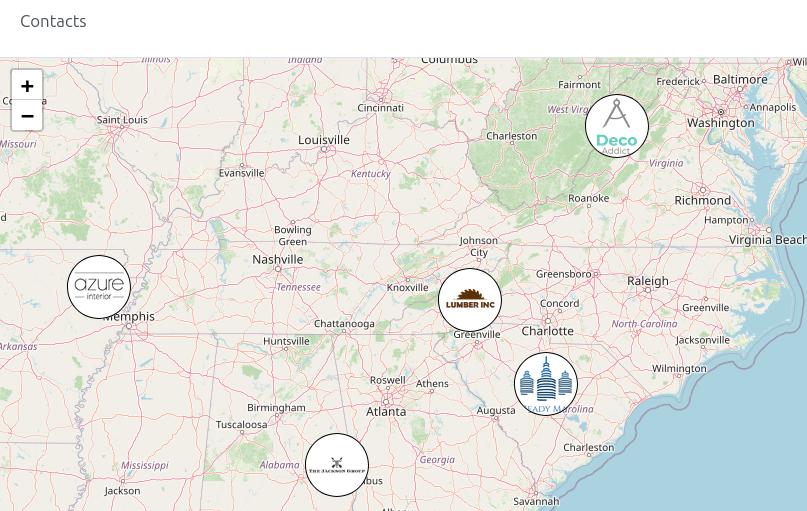
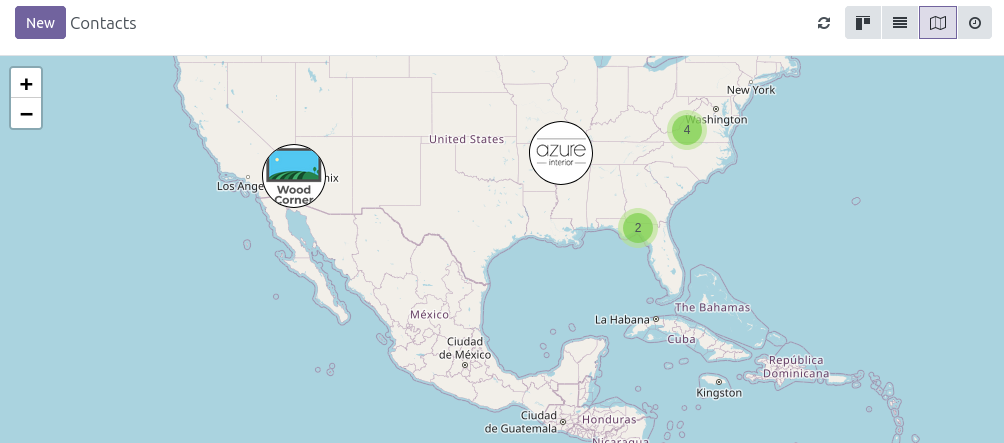
[REF] web_view_leaflet_map: full refactor. - rename folder to follow odoo and OCA conventions, regarding views definition - isolate leaflet_map_view code - isolate leaflet_map_controller code - isolate leaflet_map_renderer code - split xml file into renderer and controller part - apply Odoo SA conve
[FIX] remove useless logs, and put a single one in debug level
- remove useless code
- remove obsolete directive: control-panel-bottom-right

[IMP] web_view_leaflet_map: introduce 'Create' Button

diff --git a/web_view_leaflet_map/static/description/index.html b/web_view_leaflet_map/static/description/index.html
@@ -3,7 +3,7 @@
 <head>
 <meta http-equiv="Content-Type" content="text/html; charset=utf-8" />
 <meta name="generator" content="Docutils: https://docutils.sourceforge.io/" />
-<title>README.rst</title>
+<title>Leaflet Map View (OpenStreetMap)</title>
 <style type="text/css">
 
 /*
@@ -360,21 +360,16 @@ ul.auto-toc {
 </style>
 </head>
 <body>
-<div class="document">
+<div class="document" id="leaflet-map-view-openstreetmap">
+<h1 class="title">Leaflet Map View (OpenStreetMap)</h1>
 
-
-<a class="reference external image-reference" href="https://odoo-community.org/get-involved?utm_source=readme">
-<img alt="Odoo Community Association" src="https://odoo-community.org/readme-banner-image" />
-</a>
-<div class="section" id="leaflet-map-view-openstreetmap">
-<h1>Leaflet Map View (OpenStreetMap)</h1>
 <!-- !!!!!!!!!!!!!!!!!!!!!!!!!!!!!!!!!!!!!!!!!!!!!!!!!!!!
 !! This file is generated by oca-gen-addon-readme !!
 !! changes will be overwritten.                   !!
 !!!!!!!!!!!!!!!!!!!!!!!!!!!!!!!!!!!!!!!!!!!!!!!!!!!!
 !! source digest: sha256:4e68900a79d923acb16260b8dded77558e5fbbba071b0ec253adef930e58c15c
 !!!!!!!!!!!!!!!!!!!!!!!!!!!!!!!!!!!!!!!!!!!!!!!!!!!! -->
-<p><a class="reference external image-reference" href="https://odoo-community.org/page/development-status"><img alt="Beta" src="https://img.shields.io/badge/maturity-Beta-yellow.png" /></a> <a class="reference external image-reference" href="http://www.gnu.org/licenses/agpl-3.0-standalone.html"><img alt="License: AGPL-3" src="https://img.shields.io/badge/license-AGPL--3-blue.png" /></a> <a class="reference external image-reference" href="https://github.com/OCA/geospatial/tree/18.0/web_view_leaflet_map"><img alt="OCA/geospatial" src="https://img.shields.io/badge/github-OCA%2Fgeospatial-lightgray.png?logo=github" /></a> <a class="reference external image-reference" href="https://translation.odoo-community.org/projects/geospatial-18-0/geospatial-18-0-web_view_leaflet_map"><img alt="Translate me on Weblate" src="https://img.shields.io/badge/weblate-Translate%20me-F47D42.png" /></a> <a class="reference external image-reference" href="https://runboat.odoo-community.org/builds?repo=OCA/geospatial&amp;target_branch=18.0"><img alt="Try me on Runboat" src="https://img.shields.io/badge/runboat-Try%20me-875A7B.png" /></a></p>
+<p><a class="reference external image-reference" href="https://odoo-community.org/page/development-status"><img alt="Beta" src="https://img.shields.io/badge/maturity-Beta-yellow.png" /></a> <a class="reference external image-reference" href="http://www.gnu.org/licenses/agpl-3.0-standalone.html"><img alt="License: AGPL-3" src="https://img.shields.io/badge/licence-AGPL--3-blue.png" /></a> <a class="reference external image-reference" href="https://github.com/OCA/geospatial/tree/18.0/web_view_leaflet_map"><img alt="OCA/geospatial" src="https://img.shields.io/badge/github-OCA%2Fgeospatial-lightgray.png?logo=github" /></a> <a class="reference external image-reference" href="https://translation.odoo-community.org/projects/geospatial-18-0/geospatial-18-0-web_view_leaflet_map"><img alt="Translate me on Weblate" src="https://img.shields.io/badge/weblate-Translate%20me-F47D42.png" /></a> <a class="reference external image-reference" href="https://runboat.odoo-community.org/builds?repo=OCA/geospatial&amp;target_branch=18.0"><img alt="Try me on Runboat" src="https://img.shields.io/badge/runboat-Try%20me-875A7B.png" /></a></p>
 <p>This module extends odoo views, to add a new kind of view, named
 <tt class="docutils literal">leaflet_map</tt> that is using the Leaflet javascript library to use
 maps. (<a class="reference external" href="https://leafletjs.com/">https://leafletjs.com/</a>) This library is for exemple, used in the
@@ -407,13 +402,13 @@ visible.</p>
 </ul>
 </div>
 <div class="section" id="configuration">
-<h2><a class="toc-backref" href="#toc-entry-1">Configuration</a></h2>
+<h1><a class="toc-backref" href="#toc-entry-1">Configuration</a></h1>
 <ul class="simple">
 <li>See configuration of the module <tt class="docutils literal">web_leaflet_lib</tt>.</li>
 </ul>
 </div>
 <div class="section" id="development">
-<h2><a class="toc-backref" href="#toc-entry-2">Development</a></h2>
+<h1><a class="toc-backref" href="#toc-entry-2">Development</a></h1>
 <p>Create a new view :</p>
 <pre class="code xml literal-block">
 <span class="nt">&lt;record</span><span class="w"> </span><span class="na">id=</span><span class="s">&quot;view_my_model_map&quot;</span><span class="w"> </span><span class="na">model=</span><span class="s">&quot;ir.ui.view&quot;</span><span class="nt">&gt;</span><span class="w">
@@ -467,7 +462,7 @@ the current company, if defined. you can overload this function
 globally, or per model.</p>
 </div>
 <div class="section" id="known-issues-roadmap">
-<h2><a class="toc-backref" href="#toc-entry-3">Known issues / Roadmap</a></h2>
+<h1><a class="toc-backref" href="#toc-entry-3">Known issues / Roadmap</a></h1>
 <ul class="simple">
 <li>For the time being, at the start of the map loading, the call of
 <tt class="docutils literal">invalidateSize()</tt> is required. We should investigate why and try to
@@ -477,10 +472,19 @@ remove that call. see
 items if longitude and latitude are available. We could imagine other
 kind of usages, with Polylines, Polygons, etc… See all the leaflet
 options : <a class="reference external" href="https://leafletjs.com/reference.html">https://leafletjs.com/reference.html</a></li>
+<li>Search bar is not implemented in this view. All records are displayed
+for now. We should:<ul>
+<li>implement records refresh, when adding / removing domain in the
+search bar.</li>
+<li>implement a custom search based on the displayed map. (no need to
+load records that are out of the scope of the current displayed
+map).</li>
+</ul>
+</li>
 </ul>
 </div>
 <div class="section" id="bug-tracker">
-<h2><a class="toc-backref" href="#toc-entry-4">Bug Tracker</a></h2>
+<h1><a class="toc-backref" href="#toc-entry-4">Bug Tracker</a></h1>
 <p>Bugs are tracked on <a class="reference external" href="https://github.com/OCA/geospatial/issues">GitHub Issues</a>.
 In case of trouble, please check there if your issue has already been reported.
 If you spotted it first, help us to smash it by providing a detailed and welcomed
@@ -488,21 +492,21 @@ If you spotted it first, help us to smash it by providing a detailed and welcome
 <p>Do not contact contributors directly about support or help with technical issues.</p>
 </div>
 <div class="section" id="credits">
-<h2><a class="toc-backref" href="#toc-entry-5">Credits</a></h2>
+<h1><a class="toc-backref" href="#toc-entry-5">Credits</a></h1>
 <div class="section" id="authors">
-<h3><a class="toc-backref" href="#toc-entry-6">Authors</a></h3>
+<h2><a class="toc-backref" href="#toc-entry-6">Authors</a></h2>
 <ul class="simple">
 <li>GRAP</li>
 </ul>
 </div>
 <div class="section" id="contributors">
-<h3><a class="toc-backref" href="#toc-entry-7">Contributors</a></h3>
+<h2><a class="toc-backref" href="#toc-entry-7">Contributors</a></h2>
 <ul class="simple">
 <li>Sylvain LE GAL (<a class="reference external" href="https://www.twitter.com/legalsylvain">https://www.twitter.com/legalsylvain</a>)</li>
 </ul>
 </div>
 <div class="section" id="maintainers">
-<h3><a class="toc-backref" href="#toc-entry-8">Maintainers</a></h3>
+<h2><a class="toc-backref" href="#toc-entry-8">Maintainers</a></h2>
 <p>This module is maintained by the OCA.</p>
 <a class="reference external image-reference" href="https://odoo-community.org">
 <img alt="Odoo Community Association" src="https://odoo-community.org/logo.png" />
@@ -514,7 +518,6 @@ promote its widespread use.</p>
 <p><a class="reference external image-reference" href="https://github.com/legalsylvain"><img alt="legalsylvain" src="https://github.com/legalsylvain.png?size=40px" /></a></p>
 <p>This module is part of the <a class="reference external" href="https://github.com/OCA/geospatial/tree/18.0/web_view_leaflet_map">OCA/geospatial</a> project on GitHub.</p>
 <p>You are welcome to contribute. To learn how please visit <a class="reference external" href="https://odoo-community.org/page/Contribute">https://odoo-community.org/page/Contribute</a>.</p>
-</div>
 </div>
 </div>
 </div>

diff --git a/web_view_leaflet_map/static/src/views/leaflet_map/leaflet_map_renderer.esm.js b/web_view_leaflet_map/static/src/views/leaflet_map/leaflet_map_renderer.esm.js
@@ -1,18 +1,19 @@
-import {registry} from "@web/core/registry";
-import {useService} from "@web/core/utils/hooks";
-import {Layout} from "@web/search/layout";
 import {session} from "@web/session";
+import {useService} from "@web/core/utils/hooks";
 
-/* global L, console, document, DOMParser */
+/* global L, console, document */
 
-const {Component, useSubEnv, onWillStart, onMounted, onPatched, useRef} = owl;
+const {Component, onWillStart, onMounted, onPatched, useRef} = owl;
 
 export class MapRenderer extends Component {
+    static template = "web_view_leaflet_map.MapRenderer";
+    static components = {};
+
     /**
      * Initializes the MapRenderer component, setting up services, references, and configuration.
      */
+    // eslint-disable-next-line complexity
     setup() {
-        console.log(this.props);
         this.orm = useService("orm");
         this.action = useService("action");
         this.mapRef = useRef("mapContainer");
@@ -53,7 +54,6 @@ export class MapRenderer extends Component {
         });
 
         onPatched(() => {
-            console.log("onPatched");
             if (this.leafletMap) {
                 this.renderMarkers();
             }
@@ -179,7 +179,7 @@ export class MapRenderer extends Component {
         const lng = record[this.fieldLongitude];
         let marker = null;
         if (!lat || !lng) {
-            console.log(`Record ${record.id} has no coordinates`);
+            console.debug(`Record ${record.id} has no coordinates`);
             return;
         }
 
@@ -273,61 +273,3 @@ export class MapRenderer extends Component {
         });
     }
 }
-
-MapRenderer.template = "web_view_leaflet_map.MapRenderer";
-MapRenderer.components = {};
-
-/**
- * Controller class for the Map view, setting up the environment configuration.
- */
-export class MapController extends Component {
-    setup() {
-        useSubEnv({
-            config: {
-                ...this.env.config,
-            },
-        });
-    }
-}
-
-MapController.template = "web_view_leaflet_map.MapView";
-MapController.components = {Layout, MapRenderer};
-
-/**
- * Helper function that normalize the architecture input to ensure it is an HTMLElement.
- * @param arch
- * @returns {HTMLElement|*}
- */
-function normalizeArch(arch) {
-    if (arch && typeof arch !== "string") return arch;
-    const xml = String(arch || "");
-    const doc = new DOMParser().parseFromString(xml, "text/xml");
-    return doc.documentElement;
-}
-
-/**
- * Definition of the map view for Odoo, including its properties and components.
- * @type {{searchMenuTypes: string[], icon: string, Renderer: MapRenderer, multiRecord: boolean, type: string, display_name: string, Controller: MapController, props: (function(*, *): *&{archInfo: {arch: *}, Renderer: MapRenderer})}}
- */
-export const mapView = {
-    type: "leaflet_map",
-    display_name: "Map",
-    icon: "fa fa-map-o",
-    multiRecord: true,
-    Controller: MapController,
-    Renderer: MapRenderer,
-    searchMenuTypes: ["filter", "favorite"],
-
-    props: (genericProps) => {
-        const archEl = normalizeArch(genericProps.arch);
-        return {
-            ...genericProps,
-            Renderer: MapRenderer,
-            archInfo: {
-                arch: archEl,
-            },
-        };
-    },
-};
-
-registry.category("views").add("leaflet_map", mapView);

diff --git a/web_view_leaflet_map/static/src/views/leaflet_map/leaflet_map_view.esm.js b/web_view_leaflet_map/static/src/views/leaflet_map/leaflet_map_view.esm.js
@@ -1,0 +1,53 @@
+import {MapController} from "./leaflet_map_controller.esm";
+import {MapRenderer} from "./leaflet_map_renderer.esm";
+import {registry} from "@web/core/registry";
+
+/* global DOMParser */
+
+/**
+ * Helper function that normalize the architecture input to ensure it is an HTMLElement.
+ * @param arch
+ * @returns {HTMLElement|*}
+ */
+function normalizeArch(arch) {
+    if (arch && typeof arch !== "string") return arch;
+    const xml = String(arch || "");
+    const doc = new DOMParser().parseFromString(xml, "text/xml");
+    return doc.documentElement;
+}
+
+/**
+ * Definition of the map view for Odoo, including its properties and components.
+ * @type {{
+ *      type: string,
+ *      display_name: string,
+ *      icon: string,
+ *      multiRecord: boolean,
+ *      Controller: MapController,
+ *      Renderer: MapRenderer,
+ *      searchMenuTypes: string[],
+ *      props: (function(*, *): *&{archInfo: {arch: *}, Renderer: MapRenderer})
+ * }}
+ */
+export const leafletMapView = {
+    type: "leaflet_map",
+    display_name: "Map",
+    icon: "fa fa-map-o",
+    multiRecord: true,
+    Controller: MapController,
+    Renderer: MapRenderer,
+    searchMenuTypes: ["filter", "favorite"],
+
+    props: (genericProps) => {
+        const archEl = normalizeArch(genericProps.arch);
+        return {
+            ...genericProps,
+            Renderer: MapRenderer,
+            archInfo: {
+                arch: archEl,
+            },
+        };
+    },
+};
+
+registry.category("views").add("leaflet_map", leafletMapView);

diff --git a/web_view_leaflet_map/static/src/views/leaflet_map/leaflet_map_controller.esm.js b/web_view_leaflet_map/static/src/views/leaflet_map/leaflet_map_controller.esm.js
@@ -1,0 +1,24 @@
+import {Component, useRef} from "@odoo/owl";
+import {Layout} from "@web/search/layout";
+import {MapRenderer} from "./leaflet_map_renderer.esm";
+import {executeButtonCallback} from "@web/views/view_button/view_button_hook";
+
+/**
+ * Controller class for the Map view, setting up the environment configuration.
+ */
+export class MapController extends Component {
+    static template = "web_view_leaflet_map.MapView";
+    static components = {Layout, MapRenderer};
+
+    setup() {
+        this.rootRef = useRef("root");
+    }
+
+    async onClickCreate() {
+        return executeButtonCallback(this.rootRef.el, () => this.createRecord());
+    }
+
+    async createRecord() {
+        await this.props.createRecord();
+    }
+}

diff --git a/web_view_leaflet_map/__manifest__.py b/web_view_leaflet_map/__manifest__.py
@@ -17,9 +17,12 @@
     ],
     "assets": {
         "web.assets_backend": [
-            "web_view_leaflet_map/static/src/components/map-component/map_view.esm.js",
-            "web_view_leaflet_map/static/src/components/map-component/map_view.xml",
-            "web_view_leaflet_map/static/src/components/map-component/web_view_leaflet_map.css",
+            "web_view_leaflet_map/static/src/views/leaflet_map/leaflet_map_renderer.esm.js",
+            "web_view_leaflet_map/static/src/views/leaflet_map/leaflet_map_renderer.xml",
+            "web_view_leaflet_map/static/src/views/leaflet_map/leaflet_map_renderer.css",
+            "web_view_leaflet_map/static/src/views/leaflet_map/leaflet_map_controller.esm.js",
+            "web_view_leaflet_map/static/src/views/leaflet_map/leaflet_map_controller.xml",
+            "web_view_leaflet_map/static/src/views/leaflet_map/leaflet_map_view.esm.js",
         ],
     },
     "installable": True,

diff --git a/web_view_leaflet_map/README.rst b/web_view_leaflet_map/README.rst
@@ -1,7 +1,3 @@
-.. image:: https://odoo-community.org/readme-banner-image
-   :target: https://odoo-community.org/get-involved?utm_source=readme
-   :alt: Odoo Community Association
-
 ================================
 Leaflet Map View (OpenStreetMap)
 ================================
@@ -17,7 +13,7 @@ Leaflet Map View (OpenStreetMap)
 .. |badge1| image:: https://img.shields.io/badge/maturity-Beta-yellow.png
     :target: https://odoo-community.org/page/development-status
     :alt: Beta
-.. |badge2| image:: https://img.shields.io/badge/license-AGPL--3-blue.png
+.. |badge2| image:: https://img.shields.io/badge/licence-AGPL--3-blue.png
     :target: http://www.gnu.org/licenses/agpl-3.0-standalone.html
     :alt: License: AGPL-3
 .. |badge3| image:: https://img.shields.io/badge/github-OCA%2Fgeospatial-lightgray.png?logo=github
@@ -137,6 +133,14 @@ Known issues / Roadmap
   items if longitude and latitude are available. We could imagine other
   kind of usages, with Polylines, Polygons, etc... See all the leaflet
   options : https://leafletjs.com/reference.html
+- Search bar is not implemented in this view. All records are displayed
+  for now. We should:
+
+  - implement records refresh, when adding / removing domain in the
+    search bar.
+  - implement a custom search based on the displayed map. (no need to
+    load records that are out of the scope of the current displayed
+    map).
 
 Bug Tracker
 ===========

diff --git a/web_view_leaflet_map/readme/ROADMAP.md b/web_view_leaflet_map/readme/ROADMAP.md
@@ -6,3 +6,8 @@
   items if longitude and latitude are available. We could imagine other
   kind of usages, with Polylines, Polygons, etc... See all the leaflet
   options : <https://leafletjs.com/reference.html>
+- Search bar is not implemented in this view. All records are displayed for now.
+  We should:
+  - implement records refresh, when adding / removing domain in the search bar.
+  - implement a custom search based on the displayed map. (no need to load records
+  that are out of the scope of the current displayed map). 
